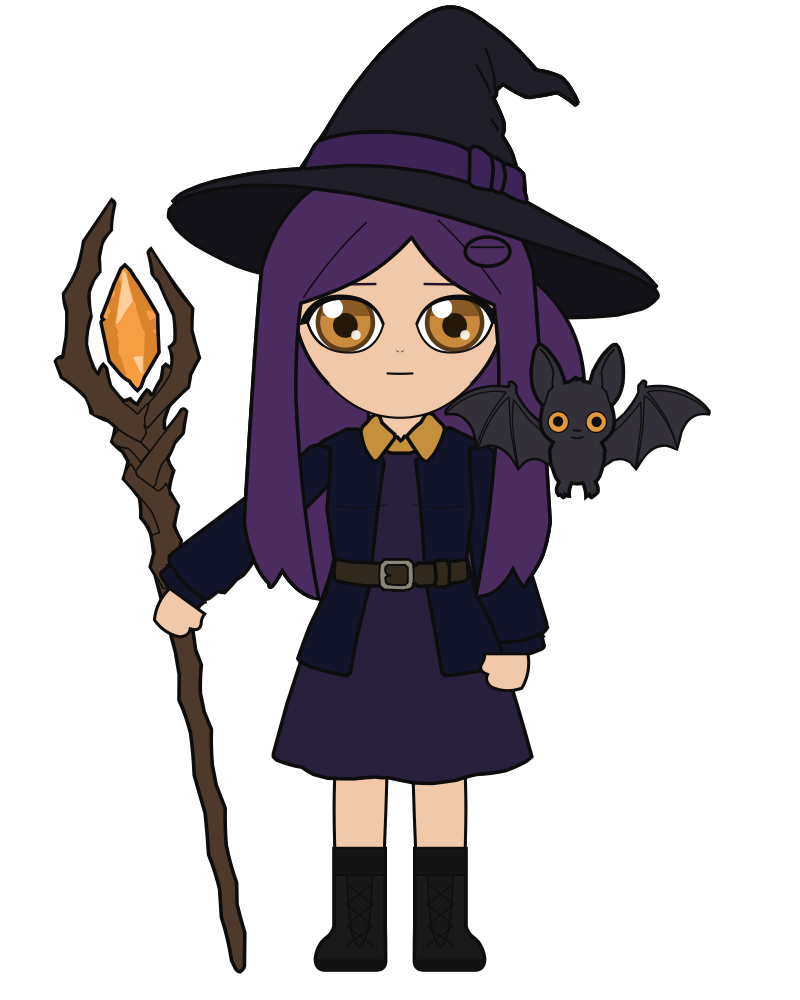
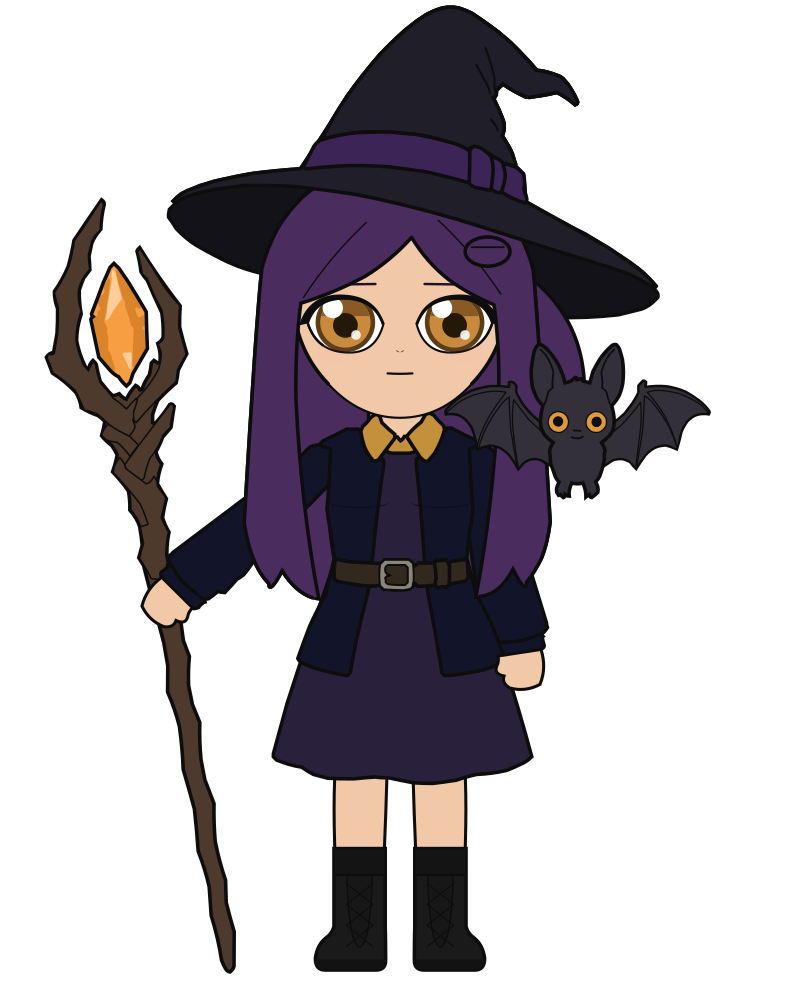
detail D4d: the mitten fitted to a traced sleeve's cuff, its top edge on the cuff's edge

Changed region(s): [[0.0625, 0.186, 0.3125, 0.992], [0.5938, 0.651, 0.6875, 0.713]]

diff --git a/src/anime_character_creator/character.py b/src/anime_character_creator/character.py
@@ -6201,7 +6201,9 @@ def _hand_centre(sk: Skeleton, p: CharacterParams, s: int) -> Point:
     """
     _, _, centre_wrist, wrist_y = _arm_line(sk)
     px, py = _arm_pivot(sk, p, s)
-    hx, hy = sk.head_cx + s * centre_wrist, wrist_y + _hand_length(sk) * 0.5
+    hx, hy = _mitten_placement(sk, p, s, sk.head_cx + s * centre_wrist, wrist_y)(
+        0.0, _hand_length(sk) * 0.5
+    )
     if _hand_traced(p, s) and s == -1 and p.outfit.staff_color is not None:
         # A traced grip holds the staff in its channel (`_grip_channel`).
         hx, hy = _traced_placement(sk, p, s)(_grip_channel())
@@ -7811,6 +7813,28 @@ def _traced_hand(sk: Skeleton, p: CharacterParams, side: int) -> str:
     return "".join(parts)
 
 
+def _mitten_placement(
+    sk: Skeleton, p: CharacterParams, side: int, cx: float, wrist_y: float
+) -> Callable[[float, float], Point]:
+    """Maps a mitten's `(offset, down)` onto the figure, in its arm's unswung
+    frame: `offset` across the wrist (the right hand's, mirrored per side),
+    `down` along the hand from its wrist line. Hanging straight down from the
+    wrist on a drawn sleeve or a bare arm; on a traced sleeve, turned so its
+    wrist line lies on the cuff's opening, centred on it and facing out of it
+    (`_cuff_opening`), the way `_traced_placement` fits a traced hand. The
+    mitten is drawn over its cuff, so its top edge sits on the cuff's edge
+    rather than tucked under it (the owner, 2026-09-27)."""
+    if _worn_sleeve(sk, p) is None:
+        return lambda offset, down: (cx + side * offset, wrist_y + down)
+    (mx, my), _half, (ox, oy) = _cuff_opening(sk, p, side)
+
+    def place(offset: float, down: float) -> Point:
+        x = side * offset
+        return (mx + x * oy + down * ox, my - x * ox + down * oy)
+
+    return place
+
+
 def _hand(
     sk: Skeleton, p: CharacterParams, cx: float, wrist_y: float, w_wrist: float, side: int
 ) -> str:
@@ -7827,18 +7851,21 @@ def _hand(
     hw = w_wrist * 1.02
     length = _hand_length(sk)
     tip = hw * (1.0 - 0.32 * sk.build)
+    place = _mitten_placement(sk, p, side, cx, wrist_y)
 
-    def x(offset: float) -> float:
-        """Offsets are for the right hand, thumb toward -x; the left mirrors."""
-        return cx + side * offset
+    def pt(offset: float, down: float) -> str:
+        """Offsets are for the right hand, thumb toward -x; the left mirrors.
+        `down` is how far along the hand from its wrist line."""
+        x, y = place(offset, down)
+        return f"{x:.1f} {y:.1f}"
 
     d = (
-        f"M {x(hw):.1f} {wrist_y:.1f} "
-        f"Q {x(hw * 1.14):.1f} {wrist_y + length * 0.55:.1f} {x(tip * 0.74):.1f} {wrist_y + length:.1f} "
-        f"Q {x(0.0):.1f} {wrist_y + length * 1.16:.1f} {x(-tip * 0.70):.1f} {wrist_y + length * 0.97:.1f} "
-        f"Q {x(-hw * 1.02):.1f} {wrist_y + length * 0.80:.1f} {x(-hw * 0.86):.1f} {wrist_y + length * 0.60:.1f} "
-        f"Q {x(-hw * 1.32):.1f} {wrist_y + length * 0.50:.1f} {x(-hw * 1.12):.1f} {wrist_y + length * 0.28:.1f} "
-        f"Q {x(-hw * 0.98):.1f} {wrist_y + length * 0.16:.1f} {x(-hw):.1f} {wrist_y:.1f} "
+        f"M {pt(hw, 0.0)} "
+        f"Q {pt(hw * 1.14, length * 0.55)} {pt(tip * 0.74, length)} "
+        f"Q {pt(0.0, length * 1.16)} {pt(-tip * 0.70, length * 0.97)} "
+        f"Q {pt(-hw * 1.02, length * 0.80)} {pt(-hw * 0.86, length * 0.60)} "
+        f"Q {pt(-hw * 1.32, length * 0.50)} {pt(-hw * 1.12, length * 0.28)} "
+        f"Q {pt(-hw * 0.98, length * 0.16)} {pt(-hw, 0.0)} "
         f"Z"
     )
     sw = _stroke_w(sk)

diff --git a/docs/detail-status.md b/docs/detail-status.md
@@ -7,8 +7,8 @@ The record for `detail-plan.md`. Procedure: `detail-strategy.md`.
 Paused 2026-09-27 at the owner's request (the weekly limit). D0 to D4 done;
 next is **D5, the hair** (strand lines and bangs parted into locks, starting
 with `long_traced`, Katherina's), a study first. Open, all the owner's to
-decide later: which presets take which `hand_style` (all "mitten" now; "grip"
-recommended for Katherina); a relaxed hand pose of its own; the chin and the
+decide later: which presets take which `hand_style` (all "mitten", the owner's
+call on 2026-09-27 until the traced hands get another pass); a relaxed hand pose of its own; the chin and the
 lid crease (deferred); `../valley_of_mist` not regenerated since the detail
 pass began (the owner: not for now; the Everglow and Katherina covers were).
 Tools: the baseline `harness/detail/baseline.py`, the byte guard
@@ -29,6 +29,19 @@ catalogue change; the local server may still be running on port 8000.
 | D6 garment line work | not started |
 
 ## Findings, newest first
+
+### D4d follow-up: the mitten fitted to a traced cuff (2026-09-27)
+
+The owner: Katherina's hands did not meet her sleeves, the mitten's flat top
+off to one side of the traced cuff's slanted edge. The cuff fit above only
+reached the traced hands; the mitten still hung from the plain arm's wrist.
+`_mitten_placement` now turns it onto the cuff's opening (`_cuff_opening`),
+centred and facing out of it, its top edge on the cuff's edge rather than
+tucked under (it is drawn over the coat), and `_hand_centre` follows, so the
+staff still runs through the fist. Only Katherina wears a traced sleeve, so
+only her `ref-out/` render changed. Compared mitten, grip and traced side by
+side on her; the owner kept the mitten as the default for now, the traced
+hands wanting more work before they are picked up again.
 
 ### D1 follow-up: the line under the chin (2026-09-27)
 
